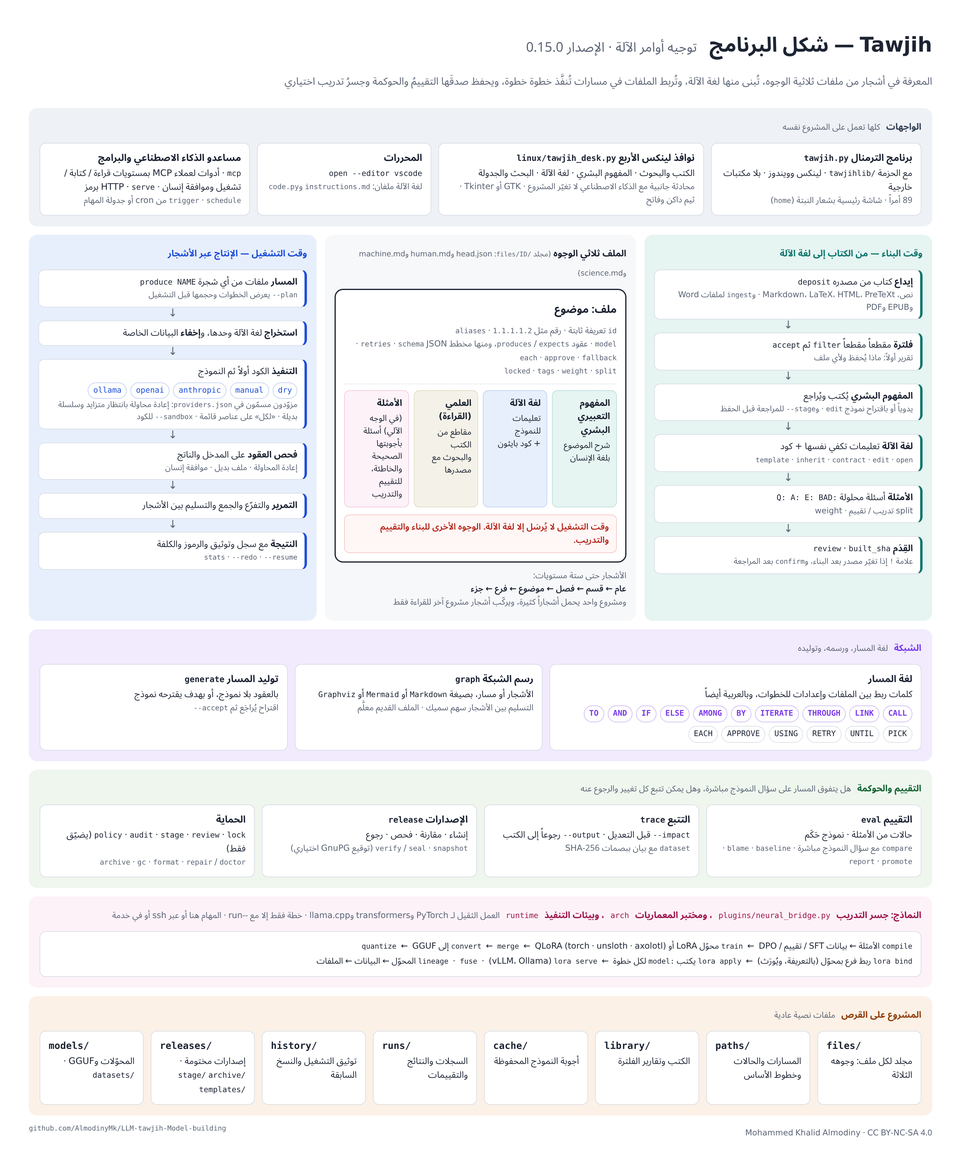
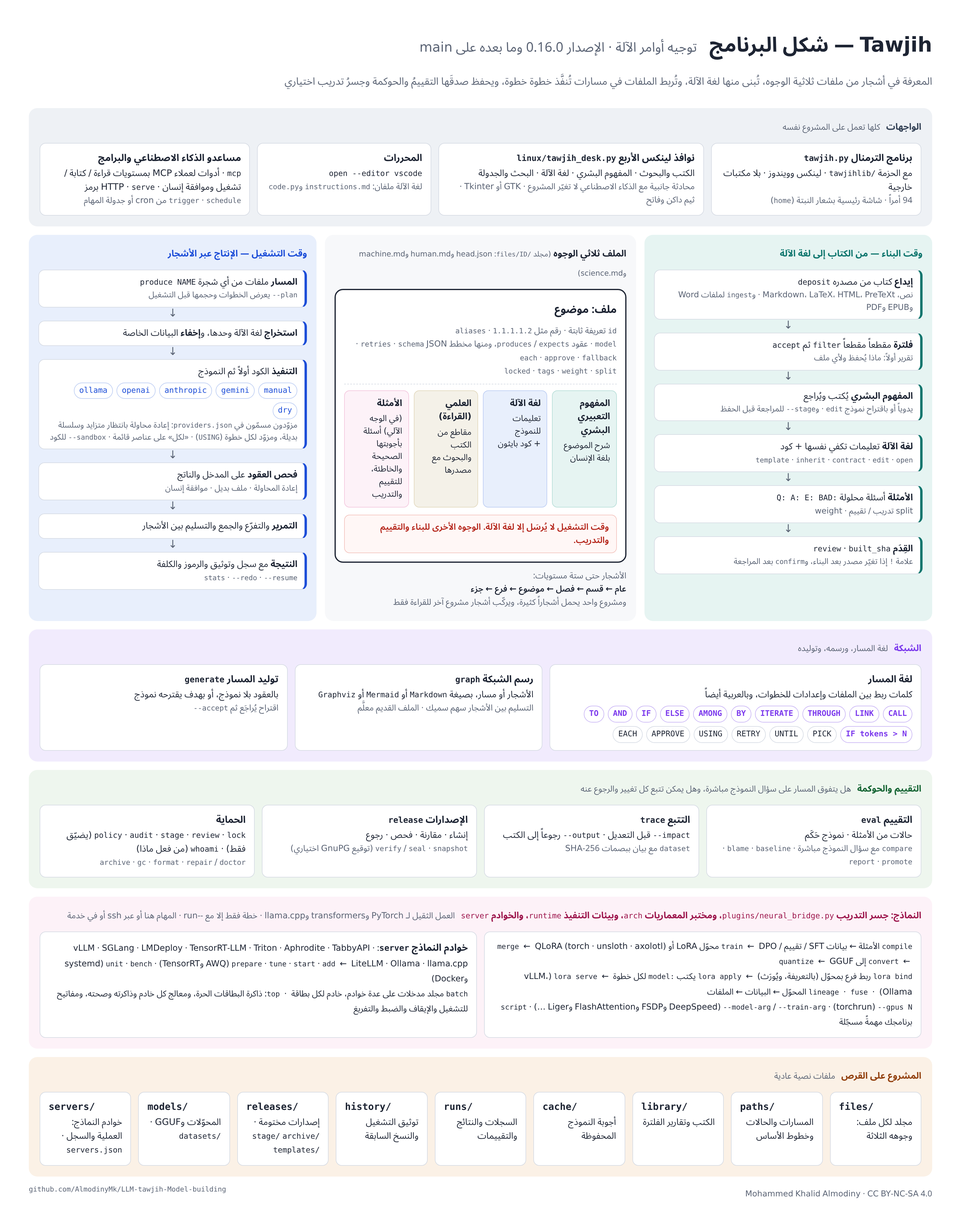
Pictures of 0.16 and main: home screen, board, architecture
- home screen at v0.16.0, with a Models and servers section (server,
  server bench, batch, IF tokens, USING, gemini) and a servers topic
- tawjih top while a path runs, with a model server among the runs, and
  a second picture with the server chosen (a stand-in server; no GPU here)
- architecture diagrams: Gemini, a provider per step, IF tokens, whoami,
  --gpus / --train-arg / script, model servers, batch, top, servers/;
  the Models heading no longer breaks in two

Claude-Session: https://claude.ai/code/session_01GU5AfFFLJzEcjQ6jTvENeJ

diff --git a/docs/source/architecture-ar.html b/docs/source/architecture-ar.html
@@ -66,13 +66,13 @@
 </head>
 <body>
 <div class="page">
-  <h1>Tawjih — شكل البرنامج <span>توجيه أوامر الآلة · الإصدار 0.15.0</span></h1>
+  <h1>Tawjih — شكل البرنامج <span>توجيه أوامر الآلة · الإصدار 0.16.0 وما بعده على main</span></h1>
   <div class="sub">المعرفة في أشجار من ملفات ثلاثية الوجوه، تُبنى منها لغة الآلة، وتُربط الملفات في مسارات تُنفَّذ خطوة خطوة، ويحفظ صدقَها التقييمُ والحوكمة وجسرُ تدريب اختياري</div>
 
   <div class="layer ui">
     <div class="tag">الواجهات <small>كلها تعمل على المشروع نفسه</small></div>
     <div class="row" style="grid-template-columns: 1.15fr 1.45fr 0.95fr 1.15fr;">
-      <div class="box"><b>برنامج الترمنال <span class="en">tawjih.py</span></b>مع الحزمة <span class="en">tawjihlib/</span> · لينكس وويندوز · بلا مكتبات خارجية<div class="m">89 أمراً · شاشة رئيسية بشعار النبتة (<span class="en">home</span>)</div></div>
+      <div class="box"><b>برنامج الترمنال <span class="en">tawjih.py</span></b>مع الحزمة <span class="en">tawjihlib/</span> · لينكس وويندوز · بلا مكتبات خارجية<div class="m">94 أمراً · شاشة رئيسية بشعار النبتة (<span class="en">home</span>)</div></div>
       <div class="box"><b>نوافذ لينكس الأربع <span class="en">linux/tawjih_desk.py</span></b>الكتب والبحوث · المفهوم البشري · لغة الآلة · البحث والجدولة<div class="m">محادثة جانبية مع الذكاء الاصطناعي لا تغيّر المشروع · GTK أو Tkinter · ثيم داكن وفاتح</div></div>
       <div class="box"><b>المحررات</b><span class="en">open --editor vscode</span><div class="m">لغة الآلة ملفان: <span class="en">instructions.md</span> و<span class="en">code.py</span></div></div>
       <div class="box"><b>مساعدو الذكاء الاصطناعي والبرامج</b><span class="en">mcp</span> · أدوات لعملاء MCP بمستويات قراءة / كتابة / تشغيل وموافقة إنسان · <span class="en">serve</span> · HTTP برمز<div class="m"><span class="en">schedule</span> · <span class="en">trigger</span> من cron أو جدولة المهام</div></div>
@@ -122,7 +122,7 @@
         <div class="arrow">↓</div>
         <div class="step"><b>استخراج</b> لغة الآلة وحدها، و<b style="display:inline">إخفاء</b> البيانات الخاصة</div>
         <div class="arrow">↓</div>
-        <div class="step"><b>التنفيذ</b> الكود أولاً ثم النموذج<div class="chips"><span class="chip p">ollama</span><span class="chip p">openai</span><span class="chip p">anthropic</span><span class="chip p">manual</span><span class="chip p">dry</span></div><div class="m">مزوّدون مسمّون في <span class="en">providers.json</span>: إعادة محاولة بانتظار متزايد وسلسلة بديلة · «لكل» على عناصر قائمة · <span class="en">--sandbox</span> للكود</div></div>
+        <div class="step"><b>التنفيذ</b> الكود أولاً ثم النموذج<div class="chips"><span class="chip p">ollama</span><span class="chip p">openai</span><span class="chip p">anthropic</span><span class="chip p">gemini</span><span class="chip p">manual</span><span class="chip p">dry</span></div><div class="m">مزوّدون مسمّون في <span class="en">providers.json</span>: إعادة محاولة بانتظار متزايد وسلسلة بديلة، ومزوّد لكل خطوة (<span class="en">USING</span>) · «لكل» على عناصر قائمة · <span class="en">--sandbox</span> للكود</div></div>
         <div class="arrow">↓</div>
         <div class="step"><b>فحص العقود</b> على المدخل والناتج<div class="m">إعادة المحاولة · ملف بديل · موافقة إنسان</div></div>
         <div class="arrow">↓</div>
@@ -136,7 +136,7 @@
   <div class="layer net">
     <div class="tag">الشبكة <small>لغة المسار، ورسمه، وتوليده</small></div>
     <div class="row" style="grid-template-columns: 1.5fr 1fr 1fr;">
-      <div class="box"><b>لغة المسار</b>كلمات ربط بين الملفات وإعدادات للخطوات، وبالعربية أيضاً<div class="chips"><span class="chip k">TO</span><span class="chip k">AND</span><span class="chip k">IF</span><span class="chip k">ELSE</span><span class="chip k">AMONG</span><span class="chip k">BY</span><span class="chip k">ITERATE</span><span class="chip k">THROUGH</span><span class="chip k">LINK</span><span class="chip k">CALL</span><span class="chip">EACH</span><span class="chip">APPROVE</span><span class="chip">USING</span><span class="chip">RETRY</span><span class="chip">UNTIL</span><span class="chip">PICK</span></div></div>
+      <div class="box"><b>لغة المسار</b>كلمات ربط بين الملفات وإعدادات للخطوات، وبالعربية أيضاً<div class="chips"><span class="chip k">TO</span><span class="chip k">AND</span><span class="chip k">IF</span><span class="chip k">ELSE</span><span class="chip k">AMONG</span><span class="chip k">BY</span><span class="chip k">ITERATE</span><span class="chip k">THROUGH</span><span class="chip k">LINK</span><span class="chip k">CALL</span><span class="chip">EACH</span><span class="chip">APPROVE</span><span class="chip">USING</span><span class="chip">RETRY</span><span class="chip">UNTIL</span><span class="chip">PICK</span><span class="chip k">IF tokens &gt; N</span></div></div>
       <div class="box"><b>رسم الشبكة <span class="en">graph</span></b>الأشجار أو مسار، بصيغة <span class="en">Markdown</span> أو <span class="en">Mermaid</span> أو <span class="en">Graphviz</span><div class="m">التسليم بين الأشجار سهم سميك · الملف القديم معلَّم</div></div>
       <div class="box"><b>توليد المسار <span class="en">generate</span></b>بالعقود بلا نموذج، أو بهدف يقترحه نموذج<div class="m">اقتراح يُراجَع ثم <span class="en">--accept</span></div></div>
     </div>
@@ -148,20 +148,21 @@
       <div class="box"><b>التقييم <span class="en">eval</span></b>حالات من الأمثلة · نموذج حَكَم<div class="m"><span class="en">compare</span> مع سؤال النموذج مباشرة · <span class="en">baseline</span> · <span class="en">blame</span> · <span class="en">promote</span> · <span class="en">report</span></div></div>
       <div class="box"><b>التتبع <span class="en">trace</span></b><span class="en">--impact</span> قبل التعديل · <span class="en">--output</span> رجوعاً إلى الكتب<div class="m"><span class="en">dataset</span> مع بيان ببصمات SHA-256</div></div>
       <div class="box"><b>الإصدارات <span class="en">release</span></b>إنشاء · مقارنة · فحص · رجوع<div class="m"><span class="en">snapshot</span> · <span class="en">seal</span> / <span class="en">verify</span> (توقيع GnuPG اختياري)</div></div>
-      <div class="box"><b>الحماية</b><span class="en">lock</span> · <span class="en">review</span> · <span class="en">stage</span> · <span class="en">audit</span> · <span class="en">policy</span> (يضيّق فقط)<div class="m"><span class="en">doctor</span> / <span class="en">repair</span> · <span class="en">format</span> · <span class="en">gc</span> · <span class="en">archive</span></div></div>
+      <div class="box"><b>الحماية</b><span class="en">lock</span> · <span class="en">review</span> · <span class="en">stage</span> · <span class="en">audit</span> · <span class="en">policy</span> (يضيّق فقط) · <span class="en">whoami</span> (من فعل ماذا)<div class="m"><span class="en">doctor</span> / <span class="en">repair</span> · <span class="en">format</span> · <span class="en">gc</span> · <span class="en">archive</span></div></div>
     </div>
   </div>
 
   <div class="layer train">
-    <div class="tag">النماذج: جسر التدريب <span class="en" style="font-weight:400">plugins/neural_bridge.py</span>، ومختبر المعماريات <span class="en" style="font-weight:400">arch</span>، وبيئات التنفيذ <span class="en" style="font-weight:400">runtime</span> <small>العمل الثقيل لـ PyTorch وtransformers وllama.cpp · خطة فقط إلا مع --run · المهام هنا أو عبر ssh أو في خدمة</small></div>
-    <div class="row" style="grid-template-columns: 1fr;">
-      <div class="box flow"><span class="en">compile</span> الأمثلة ← بيانات SFT / تقييم / DPO &nbsp;←&nbsp; <span class="en">train</span> محوّل LoRA أو QLoRA (torch · unsloth · axolotl) &nbsp;←&nbsp; <span class="en">merge</span> &nbsp;←&nbsp; <span class="en">convert</span> إلى GGUF &nbsp;←&nbsp; <span class="en">quantize</span><br><span class="en">lora bind</span> ربط فرع بمحوّل (بالتعريفة، ويُورَث) &nbsp;←&nbsp; <span class="en">lora apply</span> يكتب <span class="en">model:</span> لكل خطوة &nbsp;←&nbsp; <span class="en">lora serve</span> (vLLM، Ollama) &nbsp;·&nbsp; <span class="en">fuse</span> &nbsp;·&nbsp; <span class="en">lineage</span> المحوّل ← البيانات ← الملفات</div>
+    <div class="tag"><span>النماذج: جسر التدريب <span class="en" style="font-weight:400">plugins/neural_bridge.py</span>، ومختبر المعماريات <span class="en" style="font-weight:400">arch</span>، وبيئات التنفيذ <span class="en" style="font-weight:400">runtime</span>، والخوادم <span class="en" style="font-weight:400">server</span></span> <small>العمل الثقيل لـ PyTorch وtransformers وllama.cpp · خطة فقط إلا مع --run · المهام هنا أو عبر ssh أو في خدمة</small></div>
+    <div class="row" style="grid-template-columns: 1fr 1fr;">
+      <div class="box flow"><span class="en">compile</span> الأمثلة ← بيانات SFT / تقييم / DPO &nbsp;←&nbsp; <span class="en">train</span> محوّل LoRA أو QLoRA (torch · unsloth · axolotl) &nbsp;←&nbsp; <span class="en">merge</span> &nbsp;←&nbsp; <span class="en">convert</span> إلى GGUF &nbsp;←&nbsp; <span class="en">quantize</span><br><span class="en">lora bind</span> ربط فرع بمحوّل (بالتعريفة، ويُورَث) &nbsp;←&nbsp; <span class="en">lora apply</span> يكتب <span class="en">model:</span> لكل خطوة &nbsp;←&nbsp; <span class="en">lora serve</span> (vLLM، Ollama) &nbsp;·&nbsp; <span class="en">fuse</span> &nbsp;·&nbsp; <span class="en">lineage</span> المحوّل ← البيانات ← الملفات<br><span class="en">--gpus N</span> (torchrun) · <span class="en">--train-arg</span> / <span class="en">--model-arg</span> (DeepSpeed وFSDP وFlashAttention وLiger …) · <span class="en">script</span> برنامجك مهمةً مسجّلة</div>
+      <div class="box flow"><b style="display:inline">خوادم النماذج <span class="en">server</span></b>: vLLM · SGLang · LMDeploy · TensorRT-LLM · Triton · Aphrodite · TabbyAPI · LiteLLM · Ollama · llama.cpp &nbsp;←&nbsp; <span class="en">add</span> · <span class="en">start</span> · <span class="en">tune</span> · <span class="en">prepare</span> (AWQ وTensorRT) · <span class="en">bench</span> · <span class="en">unit</span> (systemd وDocker)<br><span class="en">batch</span> مجلد مدخلات على عدة خوادم، خادم لكل بطاقة &nbsp;·&nbsp; <span class="en">top</span>: ذاكرة البطاقات الحرة، ومعالج كل خادم وذاكرته وصحته، ومفاتيح للتشغيل والإيقاف والضبط والتفريغ</div>
     </div>
   </div>
 
   <div class="layer data">
     <div class="tag">المشروع على القرص <small>ملفات نصية عادية</small></div>
-    <div class="row" style="grid-template-columns: repeat(8, 1fr);">
+    <div class="row" style="grid-template-columns: repeat(9, 1fr);">
       <div class="box"><b class="en">files/</b>مجلد لكل ملف: وجوهه الثلاثة</div>
       <div class="box"><b class="en">paths/</b>المسارات والحالات وخطوط الأساس</div>
       <div class="box"><b class="en">library/</b>الكتب وتقارير الفلترة</div>
@@ -170,6 +171,7 @@
       <div class="box"><b class="en">history/</b>توثيق التشغيل والنسخ السابقة</div>
       <div class="box"><b class="en">releases/</b>إصدارات مختومة · <span class="en">archive/</span> <span class="en">stage/</span> <span class="en">templates/</span></div>
       <div class="box"><b class="en">models/</b>المحوّلات وGGUF · <span class="en">datasets/</span></div>
+      <div class="box"><b class="en">servers/</b>خوادم النماذج: العملية والسجل · <span class="en">servers.json</span></div>
     </div>
   </div>
 

diff --git a/docs/source/architecture-en.html b/docs/source/architecture-en.html
@@ -66,13 +66,13 @@
 </head>
 <body>
 <div class="page">
-  <h1>Tawjih — how the program is built <span>machine command directing · version 0.15.0</span></h1>
+  <h1>Tawjih — how the program is built <span>machine command directing · version 0.16.0 and main</span></h1>
   <div class="sub">Knowledge lives in trees of three-sided files; machine language is built from it; paths connect files and run them step by step; evaluation, governance and an optional training bridge keep it honest.</div>
 
   <div class="layer ui">
     <div class="tag">Interfaces <small>all work on the same project</small></div>
     <div class="row" style="grid-template-columns: 1.15fr 1.45fr 0.95fr 1.15fr;">
-      <div class="box"><b>Terminal program <span class="en">tawjih.py</span></b>with the package <span class="en">tawjihlib/</span> · Linux and Windows · standard library only<div class="m">89 commands · a home screen with the sprout logo (<span class="en">home</span>)</div></div>
+      <div class="box"><b>Terminal program <span class="en">tawjih.py</span></b>with the package <span class="en">tawjihlib/</span> · Linux and Windows · standard library only<div class="m">94 commands · a home screen with the sprout logo (<span class="en">home</span>)</div></div>
       <div class="box"><b>Four Linux windows <span class="en">linux/tawjih_desk.py</span></b>Books and research · Human concept · Machine language · Search and schedule<div class="m">a side conversation with the AI that cannot change the project · GTK or Tkinter · dark and light themes</div></div>
       <div class="box"><b>Editors</b><span class="en">open --editor vscode</span><div class="m">machine language as <span class="en">instructions.md</span> + <span class="en">code.py</span></div></div>
       <div class="box"><b>AI assistants and programs</b><span class="en">mcp</span> · tools for MCP clients, read / write / run levels, a person approves · <span class="en">serve</span> · HTTP with a token<div class="m"><span class="en">schedule</span> · <span class="en">trigger</span> from cron or Task Scheduler</div></div>
@@ -122,7 +122,7 @@
         <div class="arrow">↓</div>
         <div class="step"><b>Extract</b> only the machine side; <b style="display:inline">redact</b> private data</div>
         <div class="arrow">↓</div>
-        <div class="step"><b>Execute</b> code first, then the model<div class="chips"><span class="chip p">ollama</span><span class="chip p">openai</span><span class="chip p">anthropic</span><span class="chip p">manual</span><span class="chip p">dry</span></div><div class="m">named providers in <span class="en">providers.json</span>: retries with backoff, a fallback chain · FOR EACH over a list · <span class="en">--sandbox</span> for code</div></div>
+        <div class="step"><b>Execute</b> code first, then the model<div class="chips"><span class="chip p">ollama</span><span class="chip p">openai</span><span class="chip p">anthropic</span><span class="chip p">gemini</span><span class="chip p">manual</span><span class="chip p">dry</span></div><div class="m">named providers in <span class="en">providers.json</span>: retries with backoff, a fallback chain, a provider per step (<span class="en">USING</span>) · FOR EACH over a list · <span class="en">--sandbox</span> for code</div></div>
         <div class="arrow">↓</div>
         <div class="step"><b>Check contracts</b> on input and output<div class="m">retries · fallback file · a person approves</div></div>
         <div class="arrow">↓</div>
@@ -136,7 +136,7 @@
   <div class="layer net">
     <div class="tag">The network <small>the path language, drawing it, generating it</small></div>
     <div class="row" style="grid-template-columns: 1.5fr 1fr 1fr;">
-      <div class="box"><b>Path language</b>connecting words between files, and per-step settings, in Arabic too<div class="chips"><span class="chip k">TO</span><span class="chip k">AND</span><span class="chip k">IF</span><span class="chip k">ELSE</span><span class="chip k">AMONG</span><span class="chip k">BY</span><span class="chip k">ITERATE</span><span class="chip k">THROUGH</span><span class="chip k">LINK</span><span class="chip k">CALL</span><span class="chip">EACH</span><span class="chip">APPROVE</span><span class="chip">USING</span><span class="chip">RETRY</span><span class="chip">UNTIL</span><span class="chip">PICK</span></div></div>
+      <div class="box"><b>Path language</b>connecting words between files, and per-step settings, in Arabic too<div class="chips"><span class="chip k">TO</span><span class="chip k">AND</span><span class="chip k">IF</span><span class="chip k">ELSE</span><span class="chip k">AMONG</span><span class="chip k">BY</span><span class="chip k">ITERATE</span><span class="chip k">THROUGH</span><span class="chip k">LINK</span><span class="chip k">CALL</span><span class="chip">EACH</span><span class="chip">APPROVE</span><span class="chip">USING</span><span class="chip">RETRY</span><span class="chip">UNTIL</span><span class="chip">PICK</span><span class="chip k">IF tokens &gt; N</span></div></div>
       <div class="box"><b>Drawing <span class="en">graph</span></b>the trees or a path, as <span class="en">Markdown</span>, <span class="en">Mermaid</span> or <span class="en">Graphviz</span><div class="m">handoffs between trees are thick · stale files are marked</div></div>
       <div class="box"><b>Generating <span class="en">generate</span></b>by contracts with no model, or from a goal a model proposes<div class="m">a proposal to review, then <span class="en">--accept</span></div></div>
     </div>
@@ -148,20 +148,21 @@
       <div class="box"><b>Evaluation <span class="en">eval</span></b>cases from the examples · a judge model<div class="m"><span class="en">compare</span> with the model asked directly · <span class="en">baseline</span> · <span class="en">blame</span> · <span class="en">promote</span> · <span class="en">report</span></div></div>
       <div class="box"><b>Lineage <span class="en">trace</span></b><span class="en">--impact</span> before a change · <span class="en">--output</span> back to the books<div class="m"><span class="en">dataset</span> with a manifest of SHA-256 digests</div></div>
       <div class="box"><b>Releases <span class="en">release</span></b>create · diff · verify · rollback<div class="m"><span class="en">snapshot</span> · <span class="en">seal</span> / <span class="en">verify</span> (GnuPG optional)</div></div>
-      <div class="box"><b>Guards</b><span class="en">lock</span> · <span class="en">review</span> · <span class="en">stage</span> · <span class="en">audit</span> · <span class="en">policy</span> (restricts only)<div class="m"><span class="en">doctor</span> / <span class="en">repair</span> · <span class="en">format</span> · <span class="en">gc</span> · <span class="en">archive</span></div></div>
+      <div class="box"><b>Guards</b><span class="en">lock</span> · <span class="en">review</span> · <span class="en">stage</span> · <span class="en">audit</span> · <span class="en">policy</span> (restricts only) · <span class="en">whoami</span> (who did what)<div class="m"><span class="en">doctor</span> / <span class="en">repair</span> · <span class="en">format</span> · <span class="en">gc</span> · <span class="en">archive</span></div></div>
     </div>
   </div>
 
   <div class="layer train">
-    <div class="tag">Models: training bridge <span class="en" style="font-weight:400">plugins/neural_bridge.py</span>, architecture lab <span class="en" style="font-weight:400">arch</span>, runtimes <span class="en" style="font-weight:400">runtime</span> <small>the heavy work is done by PyTorch, transformers and llama.cpp · a plan unless --run · jobs here, over ssh, or on a service</small></div>
-    <div class="row" style="grid-template-columns: 1fr;">
-      <div class="box flow"><span class="en">compile</span> examples → SFT / eval / DPO data &nbsp;→&nbsp; <span class="en">train</span> LoRA or QLoRA (torch · unsloth · axolotl) &nbsp;→&nbsp; <span class="en">merge</span> &nbsp;→&nbsp; <span class="en">convert</span> to GGUF &nbsp;→&nbsp; <span class="en">quantize</span><br><span class="en">lora bind</span> a branch to an adapter (by id, inherited) &nbsp;→&nbsp; <span class="en">lora apply</span> writes each step's <span class="en">model:</span> &nbsp;→&nbsp; <span class="en">lora serve</span> (vLLM, Ollama) &nbsp;·&nbsp; <span class="en">fuse</span> &nbsp;·&nbsp; <span class="en">lineage</span> adapter → data → files</div>
+    <div class="tag"><span>Models: training bridge <span class="en" style="font-weight:400">plugins/neural_bridge.py</span>, architecture lab <span class="en" style="font-weight:400">arch</span>, runtimes <span class="en" style="font-weight:400">runtime</span>, servers <span class="en" style="font-weight:400">server</span></span> <small>the heavy work is done by PyTorch, transformers and llama.cpp · a plan unless --run · jobs here, over ssh, or on a service</small></div>
+    <div class="row" style="grid-template-columns: 1fr 1fr;">
+      <div class="box flow"><span class="en">compile</span> examples → SFT / eval / DPO data &nbsp;→&nbsp; <span class="en">train</span> LoRA or QLoRA (torch · unsloth · axolotl) &nbsp;→&nbsp; <span class="en">merge</span> &nbsp;→&nbsp; <span class="en">convert</span> to GGUF &nbsp;→&nbsp; <span class="en">quantize</span><br><span class="en">lora bind</span> a branch to an adapter (by id, inherited) &nbsp;→&nbsp; <span class="en">lora apply</span> writes each step's <span class="en">model:</span> &nbsp;→&nbsp; <span class="en">lora serve</span> (vLLM, Ollama) &nbsp;·&nbsp; <span class="en">fuse</span> &nbsp;·&nbsp; <span class="en">lineage</span> adapter → data → files<br><span class="en">--gpus N</span> (torchrun) · <span class="en">--train-arg</span> / <span class="en">--model-arg</span> (DeepSpeed, FSDP, FlashAttention, Liger …) · <span class="en">script</span> your own program as a recorded job</div>
+      <div class="box flow"><b style="display:inline">Model servers <span class="en">server</span></b>: vLLM · SGLang · LMDeploy · TensorRT-LLM · Triton · Aphrodite · TabbyAPI · LiteLLM · Ollama · llama.cpp &nbsp;→&nbsp; <span class="en">add</span> · <span class="en">start</span> · <span class="en">tune</span> · <span class="en">prepare</span> (AWQ, TensorRT) · <span class="en">bench</span> · <span class="en">unit</span> (systemd, Docker)<br><span class="en">batch</span> a folder of inputs across servers, one per GPU &nbsp;·&nbsp; <span class="en">top</span>: free GPU memory, each server's CPU, RAM and health, keys to start, stop, tune and flush</div>
     </div>
   </div>
 
   <div class="layer data">
     <div class="tag">The project on disk <small>plain text files</small></div>
-    <div class="row" style="grid-template-columns: repeat(8, 1fr);">
+    <div class="row" style="grid-template-columns: repeat(9, 1fr);">
       <div class="box"><b class="en">files/</b>a folder per file: its three faces</div>
       <div class="box"><b class="en">paths/</b>paths, cases, baselines</div>
       <div class="box"><b class="en">library/</b>books and filter reports</div>
@@ -170,6 +171,7 @@
       <div class="box"><b class="en">history/</b>run records and earlier versions</div>
       <div class="box"><b class="en">releases/</b>sealed zips · <span class="en">archive/</span> <span class="en">stage/</span> <span class="en">templates/</span></div>
       <div class="box"><b class="en">models/</b>adapters, GGUF · <span class="en">datasets/</span></div>
+      <div class="box"><b class="en">servers/</b>model servers: pid, log · <span class="en">servers.json</span></div>
     </div>
   </div>
 

diff --git a/tawjihlib/home.py b/tawjihlib/home.py
@@ -113,6 +113,20 @@ CARDS = [
         ("whoami", "identity", "whoami set --name NAME",
          "Your id and name in records: who ran, approved, reviewed."),
     ]),
+    ("Models and servers", False, [
+        ("server", "engines", "server add NAME --engine vllm --model M",
+         "Start, watch and stop vLLM, SGLang, Ollama, llama.cpp and more."),
+        ("server bench", "measure", "server bench NAME --from-file REF",
+         "Time per request and tokens a second, with your own file."),
+        ("batch", "spread", "batch NAME --inputs-dir DIR --backends A,B",
+         "A folder of inputs shared among servers, one per GPU."),
+        ("IF tokens", "size", "path NAME 1 TO 2 IF tokens > 16000 ELSE 3",
+         "Route by the size of a step's output; Arabic الرموز."),
+        ("USING", "per step", "path NAME 1 USING big TO 2",
+         "A step goes to the provider USING names, others elsewhere."),
+        ("--kind gemini", "Google", "provider add NAME --kind gemini",
+         "Google's Gemini API, the key in GEMINI_API_KEY."),
+    ]),
     ("Architectures and jobs", False, [
         ("arch", "design", "arch create TITLE --preset tiny",
          "A model architecture as a three-faced file: hypothesis, spec, "
@@ -230,10 +244,29 @@ TOPICS = {
          "and GPU beside the runs of paths: the step running now, the time "
          "each step took, calls, tokens, retries; and each file of the trees "
          "with its runs, success and average time. Arabic: مراقبة."),
-        ("Keys", "up and down choose a run, PgUp and PgDn move the trees, + "
-         "and - change the refresh time, q quits."),
+        ("Keys", "up and down choose a row, PgUp and PgDn move the trees, + "
+         "and - change the refresh time, L switches Arabic and English, q "
+         "quits. On a server: s start, x stop and r restart (twice), t "
+         "tune, f empty its cache, d the batch command."),
+        ("GPUs and servers", "tawjih top --min-free 16000\nEach GPU's free "
+         "memory, red below the limit, and the GPUs --gpus auto could take; "
+         "each model server with its health, CPU, RAM and GPU memory."),
         ("Without a screen", "tawjih top --once\ntawjih top --json\nOne "
          "frame, or the same facts as JSON for a script."),
+    ]),
+    "servers": ("Model servers", [
+        ("Add and start", "tawjih.py server add big --engine vllm --model M "
+         "--gpus auto --tp 2 --provider\ntawjih.py server start big --wait "
+         "600\nTen engines and any command; a setting an engine does not "
+         "take is refused, and --pass gives it its own arguments."),
+        ("Watch and change", "tawjih.py server status big\ntawjih.py server "
+         "tune big --set mem=0.85 --restart\nHealth, models, metrics and "
+         "logs; settings by name, applied when it starts again."),
+        ("Measure and share", "tawjih.py server bench big --from-file 1.1 "
+         "--requests 16 --concurrency 4\ntawjih.py batch route --inputs-dir "
+         "prompts --backends g0,g1\nThe time per request and tokens a "
+         "second on this computer; a folder of inputs shared among "
+         "servers."),
     ]),
     "langfuse": ("Traces in Langfuse", [
         ("Where", "LANGFUSE_PUBLIC_KEY, LANGFUSE_SECRET_KEY and LANGFUSE_HOST "

diff --git a/README.ar.md b/README.ar.md
@@ -506,7 +506,12 @@ python tawjih.py generate review --accept
 يتبادل العمودان مكانيهما؛ أما كتابة الحروف من اليمين إلى اليسار فتعود إلى
 الطرفية نفسها.
 
-![tawjih top: المعالج والذاكرة، والأشجار مع تنفيذ كل ملف، والخطوة الجارية، وقائمة التنفيذ](docs/images/top.png)
+![tawjih top: المعالج والذاكرة، والأشجار مع تنفيذ كل ملف، والخطوة الجارية، وقائمة التنفيذ وبينها خادم نماذج](docs/images/top.png)
+
+![tawjih top والخادم مختار: صحته وإعداداته ومعالجه وذاكرته وآخر سجله](docs/images/top-server.png)
+
+الخادم في هاتين الصورتين بديل يحاكي محركاً، وهذا الجهاز بلا بطاقة رسوميات،
+فلا تظهر أشرطة البطاقات.
 
 ## الأوامر
 

diff --git a/README.md b/README.md
@@ -553,7 +553,12 @@ on macOS the CPU comes from the load average and memory is not shown.
 In Arabic the two columns change sides; whether the letters also run
 right to left is the terminal's own choice.
 
-![tawjih top: the processor, memory, the trees with each file's runs, the step running now, and the runs](docs/images/top.png)
+![tawjih top: the processor, memory, the trees with each file's runs, the step running now, and the runs with a model server among them](docs/images/top.png)
+
+![tawjih top with a model server chosen: its health, settings, CPU and RAM, and the end of its log](docs/images/top-server.png)
+
+The server in these pictures is a stand-in, and this computer has no GPU,
+so no GPU bars show.
 
 ## Commands
 
